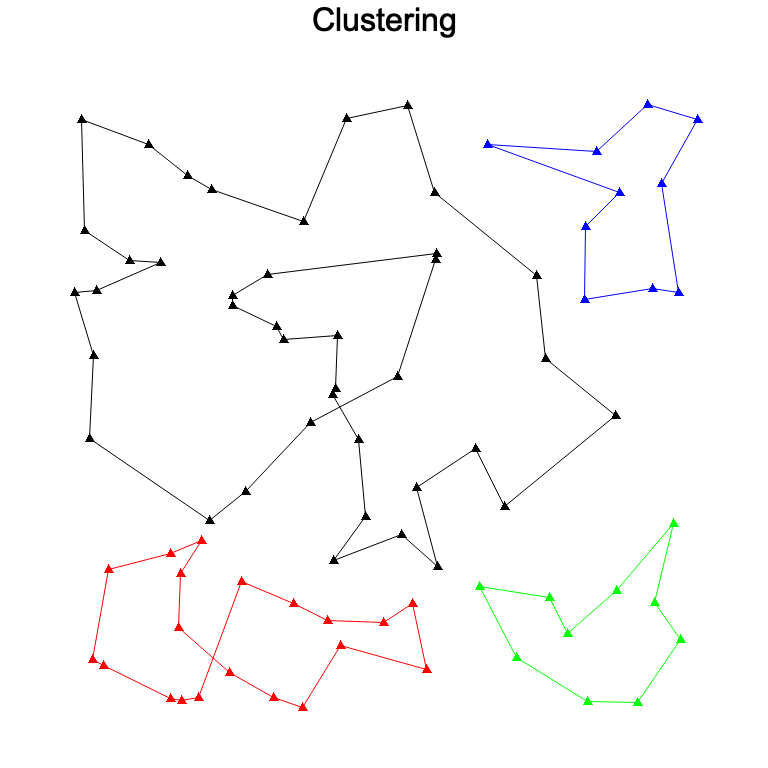
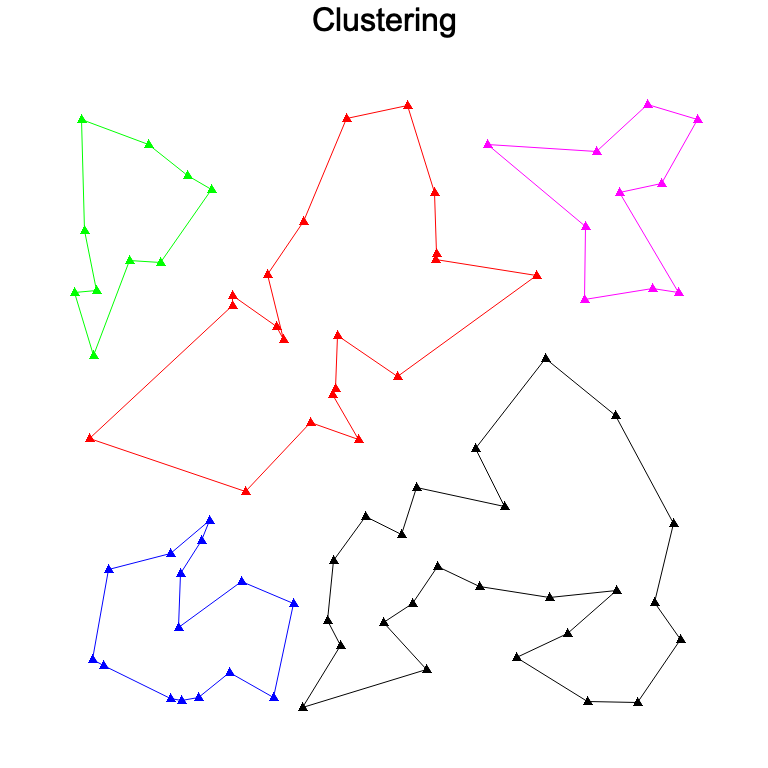
markdown init

diff --git a/src/plot.rs b/src/plot.rs
@@ -61,6 +61,7 @@ pub fn plot_clusters(_points: &[(f32, f32)], _salesmen_capacities: &[usize], fil
         let range = range_start..range_end;
         let filtered_points = sorted_points[range].iter().map(|&x| x).collect::<Vec<_>>();
         let my_color = my_colors[i % my_colors.len()];
+
         // run salesman algorithm on filtered_points.
         let mut shortest_path = anneal::shortest_path(&filtered_points, 1);
         shortest_path.push(shortest_path[0]);

diff --git a/src/bin/graph_clusters.rs b/src/bin/graph_clusters.rs
@@ -1,6 +1,6 @@
 fn main() {
     let rand_points = salesman::example::rand_points_from_chacha(80);
-    let salesmen_capacities = vec![40, 20, 10, 10];
+    let salesmen_capacities = vec![25, 20, 15, 10, 10];
     let points = salesman::anneal::shortest_path(&rand_points, 1);
     salesman::plot::plot_clusters(&points, &salesmen_capacities, "clustering");
 }

diff --git a/src/bin/graph_blocks.rs b/src/bin/graph_blocks.rs
@@ -1,0 +1,6 @@
+fn main() {
+    let rand_points = salesman::example::rand_n_blocks_as_points(5, 4, 0.07, 0.1, 5);
+    let salesmen_capacities = vec![20, 20, 20, 20, 20];
+    let points = salesman::anneal::shortest_path(&rand_points, 1);
+    salesman::plot::plot_clusters(&points, &salesmen_capacities, "blocks");
+}

diff --git a/README.md b/README.md
@@ -1,0 +1,21 @@
+# Multiple Traveling Salesmen with Capacities
+## Statement of the Problem
+Given $n$ cities and $k$ salesmen, each needing to visit exactly $n_1, ..., n_k$ cities (where $n_1 + ... + n_k = n$) and returning to the original city, what is the minimal distance traveled in total?
+## One Traveling Salesman
+We use the _simulated annealing algorithm_ to achieve this. Represent the salesman's journey by a mutable vector of cities of length $n$. In simulated annealing, we swap city $i$ and $j$ and check whether this gives a shorter distance. If it is shorter, we approve it, and if it is longer, we still approve it with a certain probability (controlled by a variable called temperature) which decreases exponentially as the algorithm proceeds. We eventually terminate the algorithm when the temperature drops below a certain threshold.
+## Multiple Salesmen
+We represent the solution by a mutable vector of cities of length $n$. The first $n_1$ entries represent the first salesman's journey, the next $n_2$ entries represent the second salesman's journey and so on. 
+
+I tried to modify the simulated annealing algorithm for the single traveling salesman by changing the distance function. However, this was not successful. Therefore, I decided to first cluster the cities. 
+
+The clustering algorithm can also use simulated annealing. The _cluster metric_ is 
+$$
+\mathcal{M}(C_1, C_2,...,C_k) = \sum_{i=1}^k \sum_{\mathbf{x}_j \in C_i} \lVert \mathbf{x}_j - \mathbf{z}_i \rVert
+$$
+where
+$$
+\mathbf{z}_i = \frac{1}{|C_i|} \sum_{\mathbf{x} \in C_i} \mathbf{x}
+$$
+is the barycenter of cluster $i$. See this [article](http://library.isical.ac.in:8080/jspui/bitstream/10263/5650/1/Clustering%20using%20simulated%20annealing%20with%20probabilistic%20redistribution-IJOPRAAI-15-2-2001-%20p%20269-285.pdf).
+
+![clustering](./images/clustering.png "Clustering")
